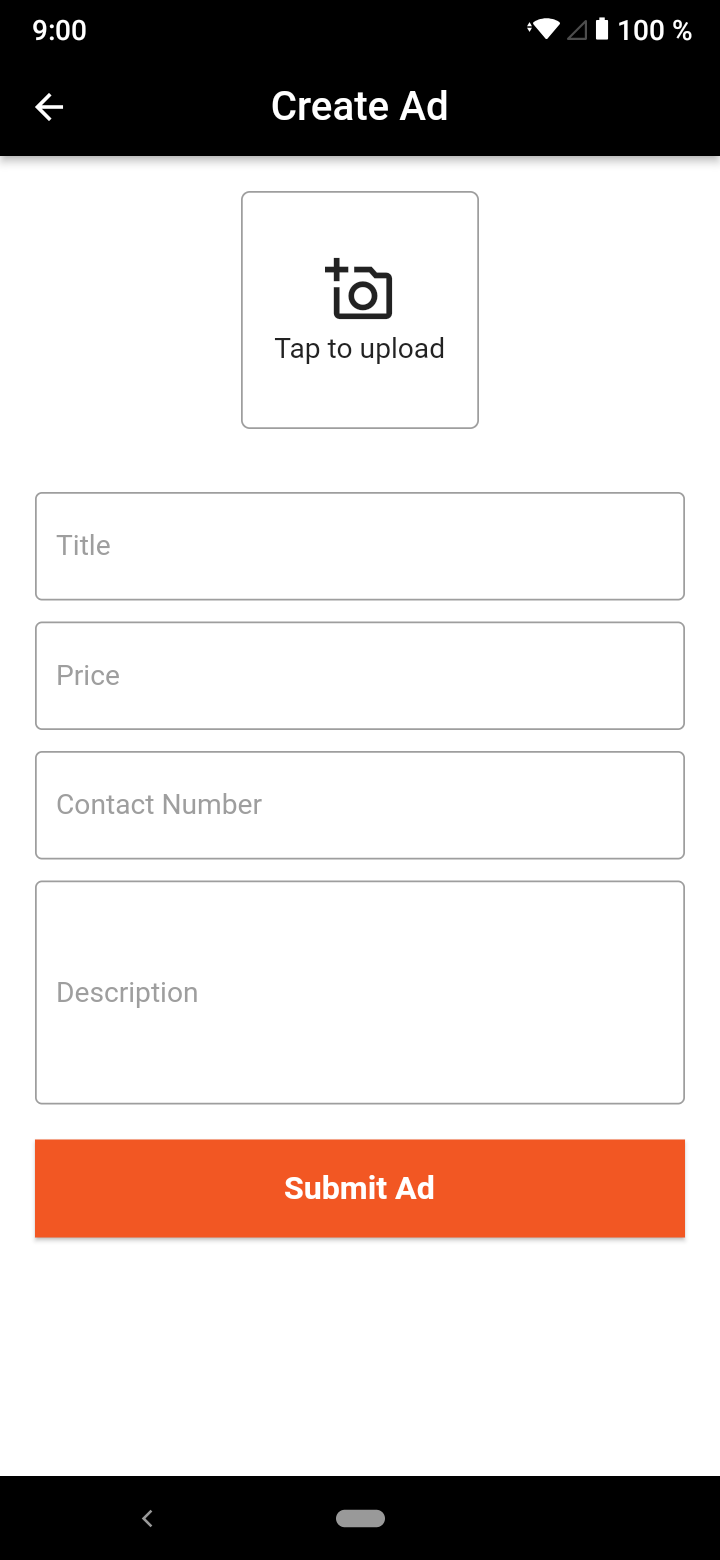
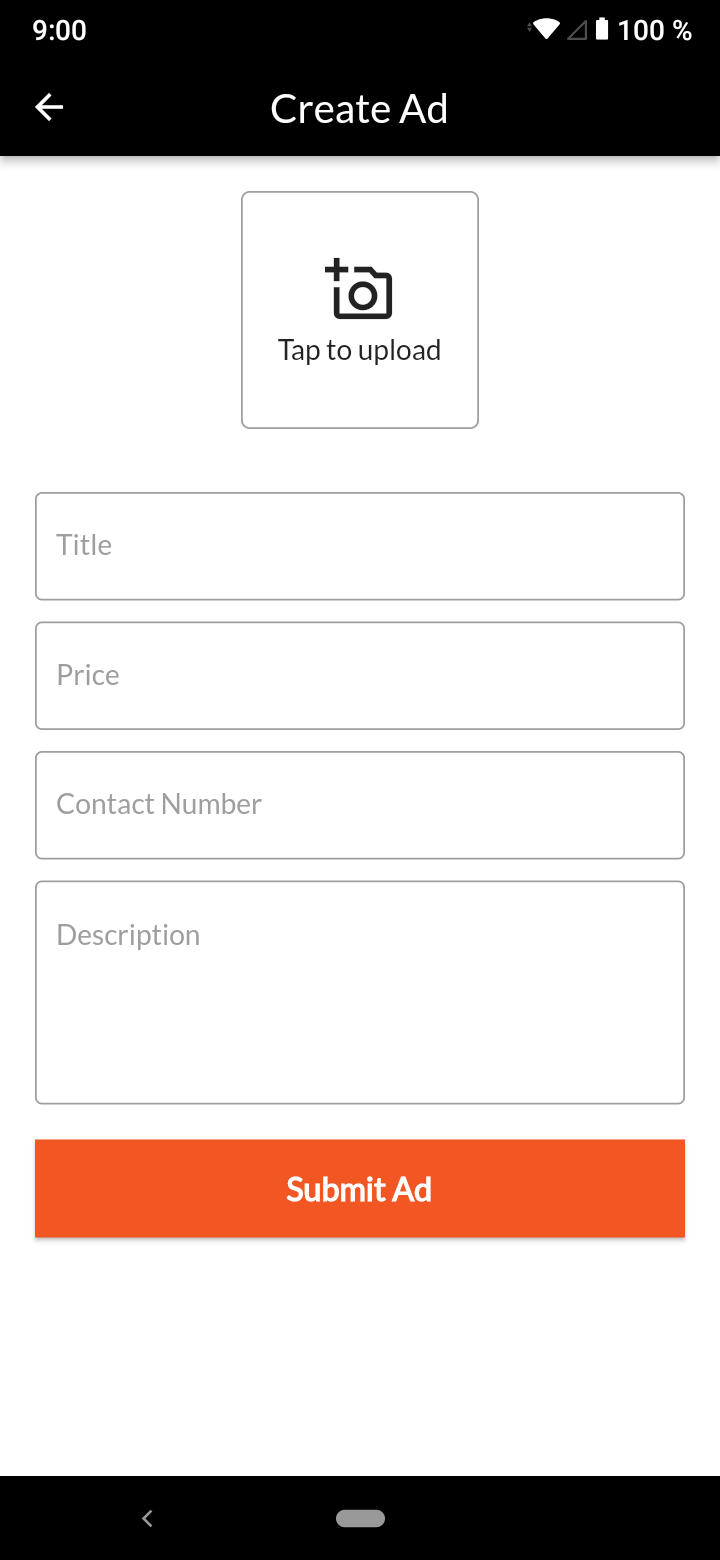
align textfield

diff --git a/lib/screens/CreateAdScreen.dart b/lib/screens/CreateAdScreen.dart
@@ -116,6 +116,7 @@ class _CreateAdScreenState extends State<CreateAdScreen> {
                               maxLines: 4,
                               decoration: InputDecoration(
                                 labelText: "Description",
+                                alignLabelWithHint: true,
                                 labelStyle:
                                     TextStyle(fontSize: 14, color: Colors.grey),
                                 enabledBorder: OutlineInputBorder(

diff --git a/lib/screens/EditAdScreen.dart b/lib/screens/EditAdScreen.dart
@@ -172,6 +172,7 @@ class _EditAdScreenState extends State<EditAdScreen> {
                               maxLines: 4,
                               decoration: InputDecoration(
                                 labelText: "Description",
+                                alignLabelWithHint: true,
                                 labelStyle:
                                     TextStyle(fontSize: 14, color: Colors.grey),
                                 enabledBorder: OutlineInputBorder(
